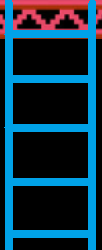
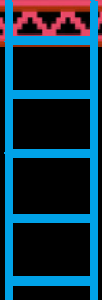
Ladder (no floor detection)

diff --git a/BackGround1.java b/BackGround1.java
@@ -25,20 +25,20 @@ d     */
         addObject(new Princess(), 700, 400);
         //
         for(int i= 0; i < 4; i++) {
-            addObject(new Floor(), fx[0] + (250*i), fy[0]);
+            addObject(new Floor(), fx[0] + 250*(i-2), fy[0]);
             addObject(new Floor2(), fx[1] + (250*i), fy[1]);
         } 
-        
+        addObject(new Floor(), 725,fy[0]);
         for(int i= 0; i < 6; i++) {
             addObject(new Floor(), 125+ (250*i), fy[2]);
-        }    
+        }     
         for(int i= 0; i < 3; i++) {
             limage[i] = new Lives();
             addObject(limage[i], 50+(i*50), 50);
         }
         addObject(new Coin(), 200, 200);
         addObject(new Mario(), 125, 940);
-        //addObject(new Ladder(), 450,556);
-        setPaintOrder(Mario.class, Ladder.class);
+        addObject(new Ladder(), 550,432);
+        setPaintOrder(Mario.class, Barrel.class, Ladder.class);
     }
 }

diff --git a/Barrel.java b/Barrel.java
@@ -28,9 +28,9 @@ public class Barrel extends Actor
             setLocation(getX() + 3, getY() - 3);
             turn(8);
           }
-          while(isTouching(Ladder.class))
+          while(isTouching(Ladder.class)&& getY()<440)
           {
-            setLocation(getX() - 3, getY() - 3);
+            setLocation(getX() + 3, getY() - 3);
             turn(0);
           }
           turn(8);

diff --git a/Mario.java b/Mario.java
@@ -87,7 +87,7 @@ public class Mario extends Actor
         }
               while(isTouching(Ladder.class) && (Greenfoot.isKeyDown("up") || Greenfoot.isKeyDown("w"))){
             
-                speed = -23;
+                speed = -25;
                  if(getY() > 555){
                     setLocation(getX(), getY() - 1);
                 }
